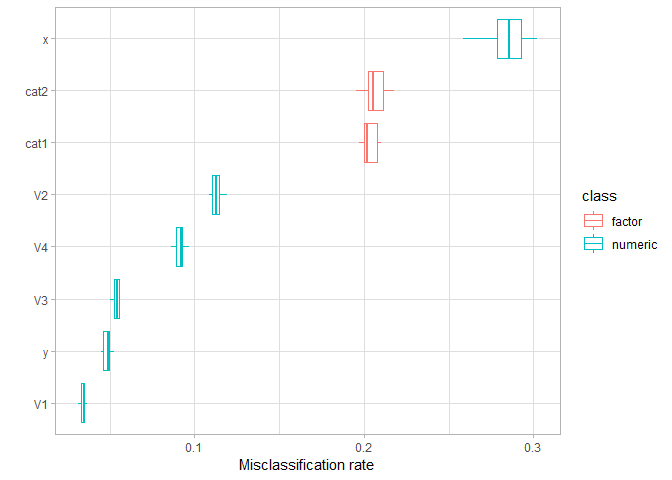
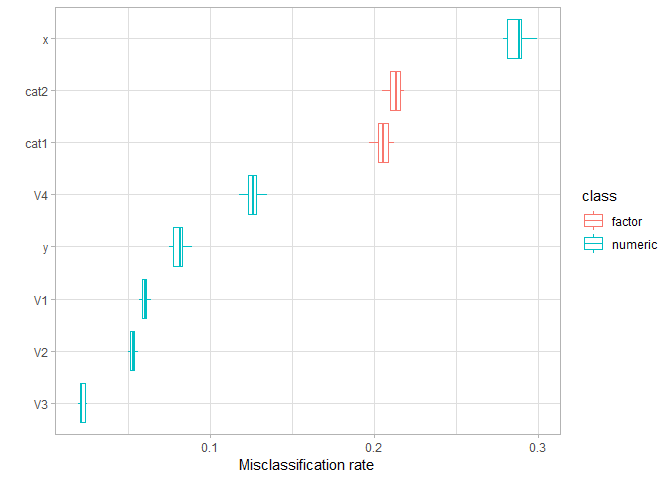
finalized readme

diff --git a/README.md b/README.md
@@ -42,22 +42,24 @@ a 6 dimensional space
 ``` r
 library(FeatureImpCluster)
 #> Loading required package: data.table
+
+set.seed(7)
 dat <- create_random_data(n=4000,nr_other_vars = 4)
 summary(dat$data)
-#>        V1                  V2                 V3          
-#>  Min.   :-3.503537   Min.   :-4.25505   Min.   :-3.69946  
-#>  1st Qu.:-0.678525   1st Qu.:-0.67117   1st Qu.:-0.67973  
-#>  Median : 0.000047   Median : 0.00745   Median : 0.01825  
-#>  Mean   : 0.000000   Mean   : 0.00000   Mean   : 0.00000  
-#>  3rd Qu.: 0.668155   3rd Qu.: 0.66007   3rd Qu.: 0.67338  
-#>  Max.   : 3.283141   Max.   : 3.72633   Max.   : 3.62204  
-#>        V4                 x                  y           
-#>  Min.   :-3.74953   Min.   :-2.33650   Min.   :-2.20839  
-#>  1st Qu.:-0.67451   1st Qu.:-0.93308   1st Qu.:-0.93919  
-#>  Median : 0.01666   Median : 0.02645   Median :-0.02859  
-#>  Mean   : 0.00000   Mean   : 0.00000   Mean   : 0.00000  
-#>  3rd Qu.: 0.69444   3rd Qu.: 0.92371   3rd Qu.: 0.93294  
-#>  Max.   : 3.65882   Max.   : 2.16919   Max.   : 2.14545
+#>        V1                  V2                  V3           
+#>  Min.   :-3.531648   Min.   :-3.578032   Min.   :-3.924400  
+#>  1st Qu.:-0.670694   1st Qu.:-0.676281   1st Qu.:-0.662992  
+#>  Median :-0.001917   Median :-0.001944   Median :-0.002742  
+#>  Mean   : 0.000000   Mean   : 0.000000   Mean   : 0.000000  
+#>  3rd Qu.: 0.654912   3rd Qu.: 0.658228   3rd Qu.: 0.678405  
+#>  Max.   : 3.501554   Max.   : 3.717284   Max.   : 3.065434  
+#>        V4                 x                   y           
+#>  Min.   :-3.91009   Min.   :-2.255326   Min.   :-2.04657  
+#>  1st Qu.:-0.67427   1st Qu.:-0.934193   1st Qu.:-0.92633  
+#>  Median : 0.01396   Median :-0.004383   Median : 0.04418  
+#>  Mean   : 0.00000   Mean   : 0.000000   Mean   : 0.00000  
+#>  3rd Qu.: 0.67657   3rd Qu.: 0.927500   3rd Qu.: 0.92785  
+#>  Max.   : 3.58167   Max.   : 2.095888   Max.   : 2.18437
 ```
 
 ``` r
@@ -86,7 +88,7 @@ library(flexclust)
 #> Loading required package: lattice
 #> Loading required package: modeltools
 #> Loading required package: stats4
-set.seed(123)
+set.seed(10)
 res <- kcca(dat$data,k=4)
 FeatureImp_res <- FeatureImpCluster(res,as.data.table(dat$data))
 plot(FeatureImp_res)
@@ -94,10 +96,10 @@ plot(FeatureImp_res)
 
 <img src="man/figures/README-unnamed-chunk-3-1.png" width="100%" />
 
-Indeed, y and x are most relevant. But also V4 and V1 have some impact
-on the cluster assignment. By looking at the cluster centers, we see
-that, in particular, cluster 2 and 4 have a different center in the V4
-and V1 dimension than the other
+Indeed, y and x are most relevant. But also V2 has some impact on the
+cluster assignment. By looking at the cluster centers we see that, in
+particular, cluster 2 and 3 have a different center in the V2 dimension
+than the other
 clusters.
 
 ``` r
@@ -113,22 +115,24 @@ barplot(res)
 If we had a lot more than 6 variables (and possibly more clusters), then
 the chart above might be hard to interpret. The feature importance plot
 instead provides an aggregate statistics per feature and is, as such,
-always easy to interpret.
+always easy to interpret, in particular since only the top x (say, 10 or
+30) features can be considered to get a first impression.
 
 ## Feature selection
 
 We know that the clustering is impacted by the random initialization.
 Thus it is usually recommended to run the clustering alogrithm several
 times with different seeds. As a by-product, the feature importance will
-provide us a feature selection mechanism: we can take the median over
-the importance of a feature over various iterations so that any spurious
-importance is correctly identified as outlier.
+provide us a feature selection mechanism: instead of iterating over
+permutation, we can iterate over the different cluster runs (or both).
+This way there is a good chance that any spurious importance is
+identified as an outlier.
 
-For our example we calculate the feature importance 5 times before
-taking the median:
+For our example we repeat the clustering + feature importance
+calculation 5 times:
 
 ``` r
-set.seed(123)
+set.seed(12)
 nr_seeds <- 5
 seeds_vec <- sample(1:1000,nr_seeds)
 
@@ -137,25 +141,21 @@ count <- 1
 for (s in seeds_vec) {
   set.seed(s)
   res <- kcca(dat$data,k=4)
-  FeatureImp_res <- FeatureImpCluster(res,as.data.table(dat$data),sub = 1,biter = 10)
+  FeatureImp_res <- FeatureImpCluster(res,as.data.table(dat$data),sub = 1,biter = 1)
   savedImp[count,] <- FeatureImp_res$featureImp[sort(names(FeatureImp_res$featureImp))]
   count <- count + 1
 }
 names(savedImp) <- sort(names(FeatureImp_res$featureImp))
-median_importance <- sapply(savedImp,median)
 ```
 
 Now it becomes quite obvious that x and y are the only relevant
 features, and we could do our clustering only based on these features.
 This is importantant in practice since cluster centroids with a lower
 number of features are easier to interpret, and we can save time / money
-collecting and pre-processing unnecessary
-features.
+collecting and pre-processing unnecessary features.
 
 ``` r
-data2plot <- data.frame(Feature=names(median_importance),Importance=median_importance)
-ggplot(data2plot,aes(x=Feature,y=sort(Importance,decreasing = F))) + geom_col() + 
-  coord_flip() + ylab("Median feature importance") + theme_light()
+boxplot(savedImp)
 ```
 
 <img src="man/figures/README-unnamed-chunk-6-1.png" width="100%" />
@@ -189,7 +189,7 @@ Obviously x and cat2 are strongly correlated.
 
 ``` r
 cor(ds$x,as.numeric(ds$cat2),method="spearman")
-#> [1] 0.8657435
+#> [1] 0.8655712
 ```
 
 First we’ll apply the clustering with an automatic estimation of
